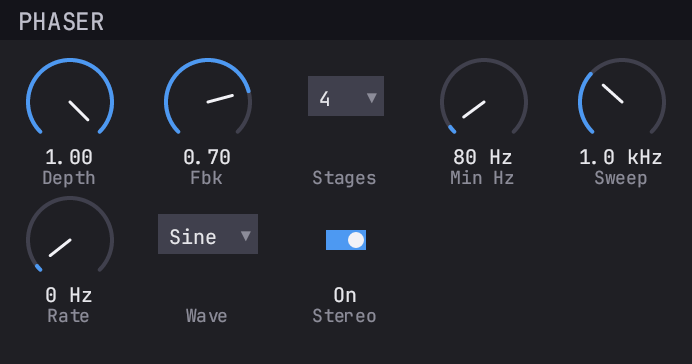
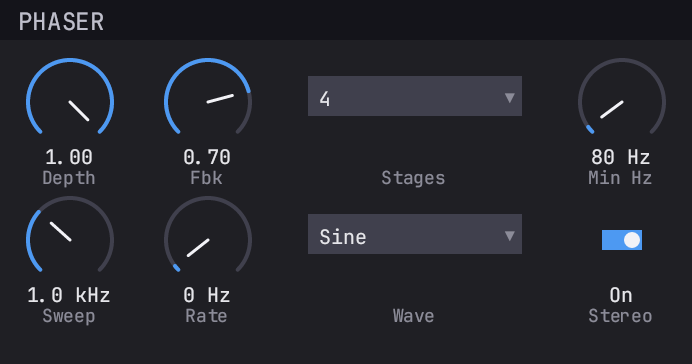
UI tweak

diff --git a/plugins/reiss-mcpherson-wahwah/src/lib.rs b/plugins/reiss-mcpherson-wahwah/src/lib.rs
@@ -326,7 +326,7 @@ impl PluginLogic for WahWah {
             section(
                 "FILTER",
                 vec![
-                    dropdown(P::FilterType, "Type"),
+                    dropdown(P::FilterType, "Type").cols(2),
                     knob(P::Frequency, "Freq"),
                     knob(P::Q, "Q"),
                     knob(P::Gain, "Gain"),
@@ -336,7 +336,7 @@ impl PluginLogic for WahWah {
             section(
                 "CONTROL",
                 vec![
-                    dropdown(P::Mode, "Mode"),
+                    dropdown(P::Mode, "Mode").cols(2),
                     knob(P::LfoRate, "LFO"),
                     knob(P::LfoEnvMix, "LFO/Env"),
                     knob(P::EnvAttack, "Atk"),

diff --git a/plugins/reiss-mcpherson-phaser/src/lib.rs b/plugins/reiss-mcpherson-phaser/src/lib.rs
@@ -281,13 +281,13 @@ impl PluginLogic for Phaser {
             widgets(vec![
                 knob(P::Depth, "Depth"),
                 knob(P::Feedback, "Fbk"),
-                dropdown(P::Stages, "Stages"),
+                dropdown(P::Stages, "Stages").cols(2),
             ]),
             widgets(vec![
                 knob(P::MinFreq, "Min Hz"),
                 knob(P::SweepWidth, "Sweep"),
                 knob(P::LfoRate, "Rate"),
-                dropdown(P::Waveform, "Wave"),
+                dropdown(P::Waveform, "Wave").cols(2),
                 toggle(P::Stereo, "Stereo"),
             ]),
         ])

diff --git a/plugins/reiss-mcpherson-robotization/src/lib.rs b/plugins/reiss-mcpherson-robotization/src/lib.rs
@@ -387,10 +387,10 @@ impl PluginLogic for Robotization {
 
     fn editor(&self) -> Box<dyn Editor> {
         GridLayout::build(vec![widgets(vec![
-            dropdown(P::Effect, "Effect"),
-            dropdown(P::FftSize, "FFT"),
-            dropdown(P::Hop, "Hop"),
-            dropdown(P::Window, "Window"),
+            dropdown(P::Effect, "Effect").cols(2),
+            dropdown(P::FftSize, "FFT").cols(2),
+            dropdown(P::Hop, "Hop").cols(2),
+            dropdown(P::Window, "Window").cols(2),
         ])])
         .with_title("ROBOTIZATION")
         .into_editor(&self.params)

diff --git a/plugins/reiss-mcpherson-pitchshift/src/lib.rs b/plugins/reiss-mcpherson-pitchshift/src/lib.rs
@@ -413,9 +413,9 @@ impl PluginLogic for PitchShift {
     fn editor(&self) -> Box<dyn Editor> {
         GridLayout::build(vec![widgets(vec![
             knob(P::Shift, "Shift"),
-            dropdown(P::FftSize, "FFT"),
-            dropdown(P::Hop, "Hop"),
-            dropdown(P::Window, "Window"),
+            dropdown(P::FftSize, "FFT").cols(2),
+            dropdown(P::Hop, "Hop").cols(2),
+            dropdown(P::Window, "Window").cols(2),
         ])])
         .with_title("PITCH SHIFT")
         .into_editor(&self.params)

diff --git a/plugins/reiss-mcpherson-flanger/src/lib.rs b/plugins/reiss-mcpherson-flanger/src/lib.rs
@@ -272,8 +272,8 @@ impl PluginLogic for Flanger {
             ]),
             widgets(vec![
                 knob(P::Rate, "Rate"),
-                dropdown(P::Waveform, "Wave"),
-                dropdown(P::Interp, "Interp"),
+                dropdown(P::Waveform, "Wave").cols(2),
+                dropdown(P::Interp, "Interp").cols(2),
                 toggle(P::Inverted, "Inv"),
                 toggle(P::Stereo, "Stereo"),
             ]),

diff --git a/plugins/reiss-mcpherson-vibrato/src/lib.rs b/plugins/reiss-mcpherson-vibrato/src/lib.rs
@@ -212,8 +212,8 @@ impl PluginLogic for Vibrato {
         GridLayout::build(vec![widgets(vec![
             knob(P::Width, "Width"),
             knob(P::Rate, "Rate"),
-            dropdown(P::Waveform, "Wave"),
-            dropdown(P::Interp, "Interp"),
+            dropdown(P::Waveform, "Wave").cols(2),
+            dropdown(P::Interp, "Interp").cols(2),
         ])])
         .with_title("VIBRATO")
         .into_editor(&self.params)

diff --git a/plugins/reiss-mcpherson-chorus/src/lib.rs b/plugins/reiss-mcpherson-chorus/src/lib.rs
@@ -291,8 +291,8 @@ impl PluginLogic for Chorus {
             ]),
             widgets(vec![
                 knob(P::Rate, "Rate"),
-                dropdown(P::Waveform, "Wave"),
-                dropdown(P::Interp, "Interp"),
+                dropdown(P::Waveform, "Wave").cols(2),
+                dropdown(P::Interp, "Interp").cols(2),
                 toggle(P::Stereo, "Stereo"),
             ]),
         ])

diff --git a/plugins/reiss-mcpherson-distortion/src/lib.rs b/plugins/reiss-mcpherson-distortion/src/lib.rs
@@ -205,7 +205,7 @@ impl PluginLogic for Distortion {
 
     fn editor(&self) -> Box<dyn Editor> {
         GridLayout::build(vec![widgets(vec![
-            dropdown(P::DistortionType, "Type"),
+            dropdown(P::DistortionType, "Type").cols(2),
             knob(P::InputGain, "In"),
             knob(P::OutputGain, "Out"),
             knob(P::Tone, "Tone"),

diff --git a/plugins/reiss-mcpherson-compressor/src/lib.rs b/plugins/reiss-mcpherson-compressor/src/lib.rs
@@ -208,7 +208,7 @@ impl PluginLogic for Compressor {
     fn editor(&self) -> Box<dyn Editor> {
         GridLayout::build(vec![
             widgets(vec![
-                dropdown(P::Mode, "Mode"),
+                dropdown(P::Mode, "Mode").cols(2),
                 knob(P::Threshold, "Thresh"),
                 knob(P::Ratio, "Ratio"),
             ]),

diff --git a/plugins/reiss-mcpherson-ringmod/src/lib.rs b/plugins/reiss-mcpherson-ringmod/src/lib.rs
@@ -167,7 +167,7 @@ impl PluginLogic for RingMod {
         GridLayout::build(vec![widgets(vec![
             knob(P::Depth, "Depth"),
             knob(P::Frequency, "Freq"),
-            dropdown(P::Waveform, "Wave"),
+            dropdown(P::Waveform, "Wave").cols(2),
         ])])
         .with_title("RING MOD")
         .into_editor(&self.params)

diff --git a/plugins/reiss-mcpherson-parametric-eq/src/lib.rs b/plugins/reiss-mcpherson-parametric-eq/src/lib.rs
@@ -256,7 +256,7 @@ impl PluginLogic for ParametricEq {
             knob(P::Frequency, "Freq"),
             knob(P::Q, "Q"),
             knob(P::Gain, "Gain"),
-            dropdown(P::FilterType, "Type"),
+            dropdown(P::FilterType, "Type").cols(2),
         ])])
         .with_title("PARAMETRIC EQ")
         .into_editor(&self.params)

diff --git a/plugins/reiss-mcpherson-tremolo/src/lib.rs b/plugins/reiss-mcpherson-tremolo/src/lib.rs
@@ -177,7 +177,7 @@ impl PluginLogic for Tremolo {
         GridLayout::build(vec![widgets(vec![
             knob(P::Depth, "Depth"),
             knob(P::Rate, "Rate"),
-            dropdown(P::Waveform, "Wave"),
+            dropdown(P::Waveform, "Wave").cols(2),
         ])])
         .with_title("TREMOLO")
         .into_editor(&self.params)
